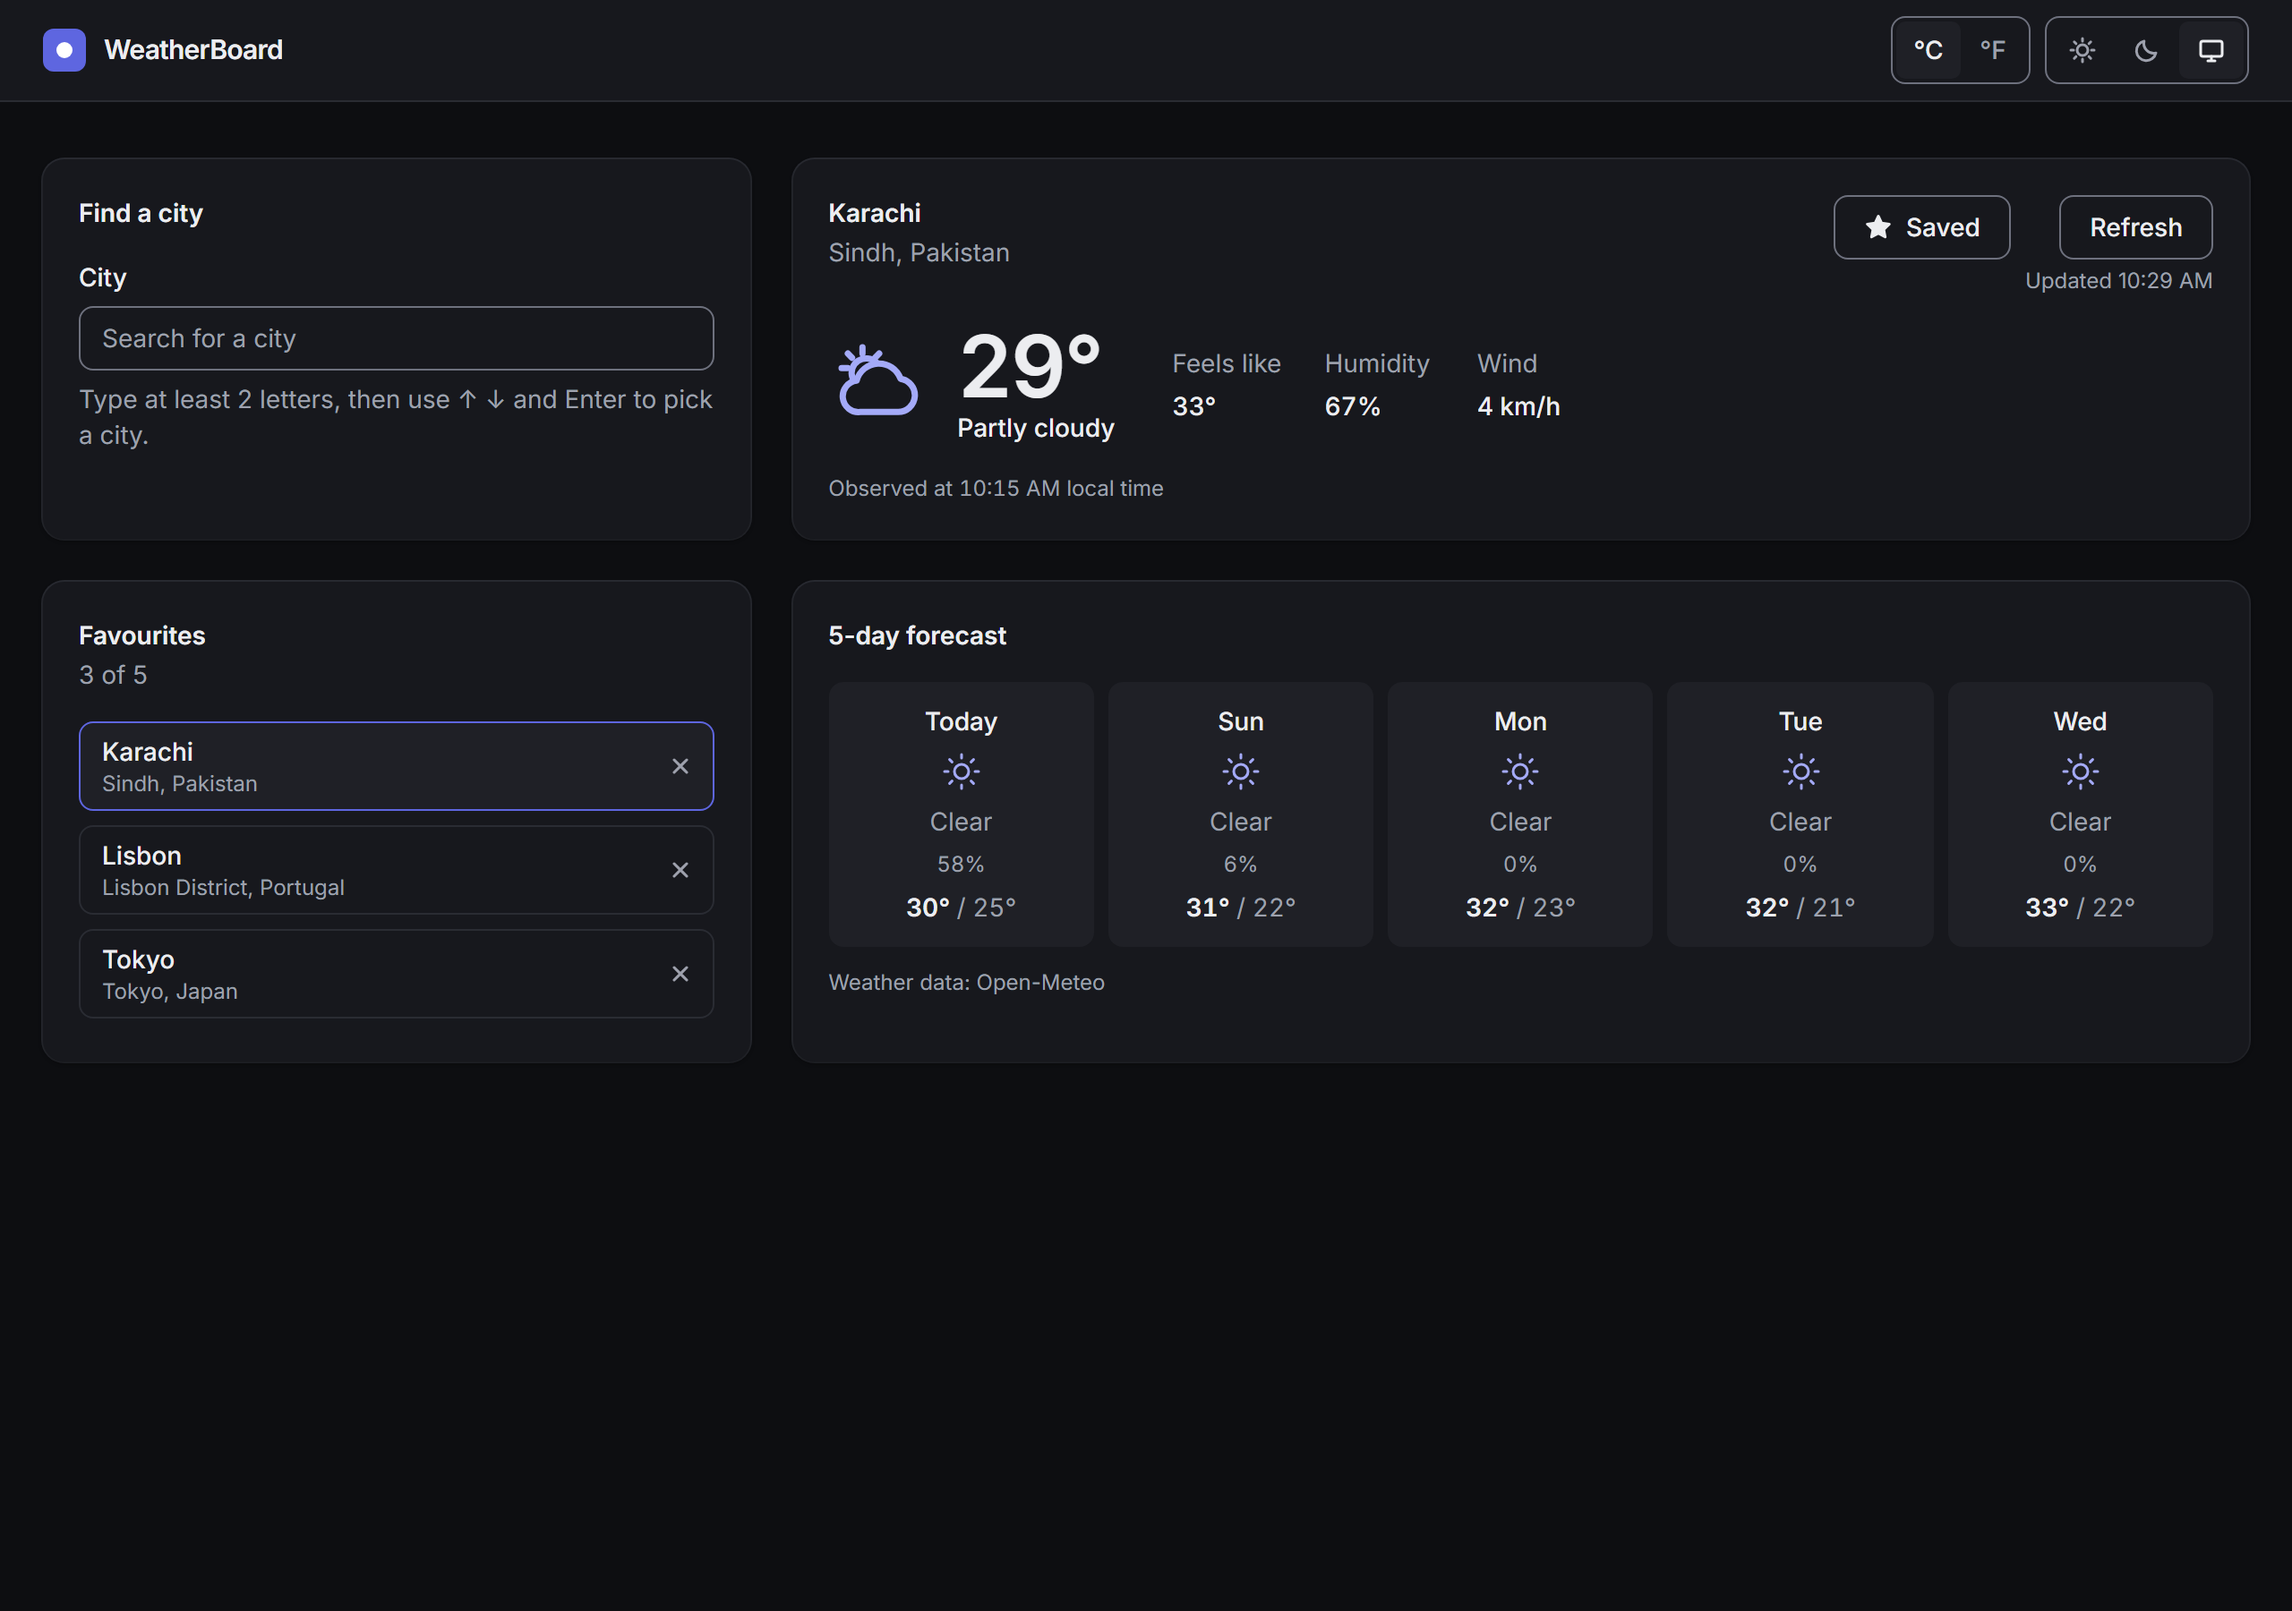
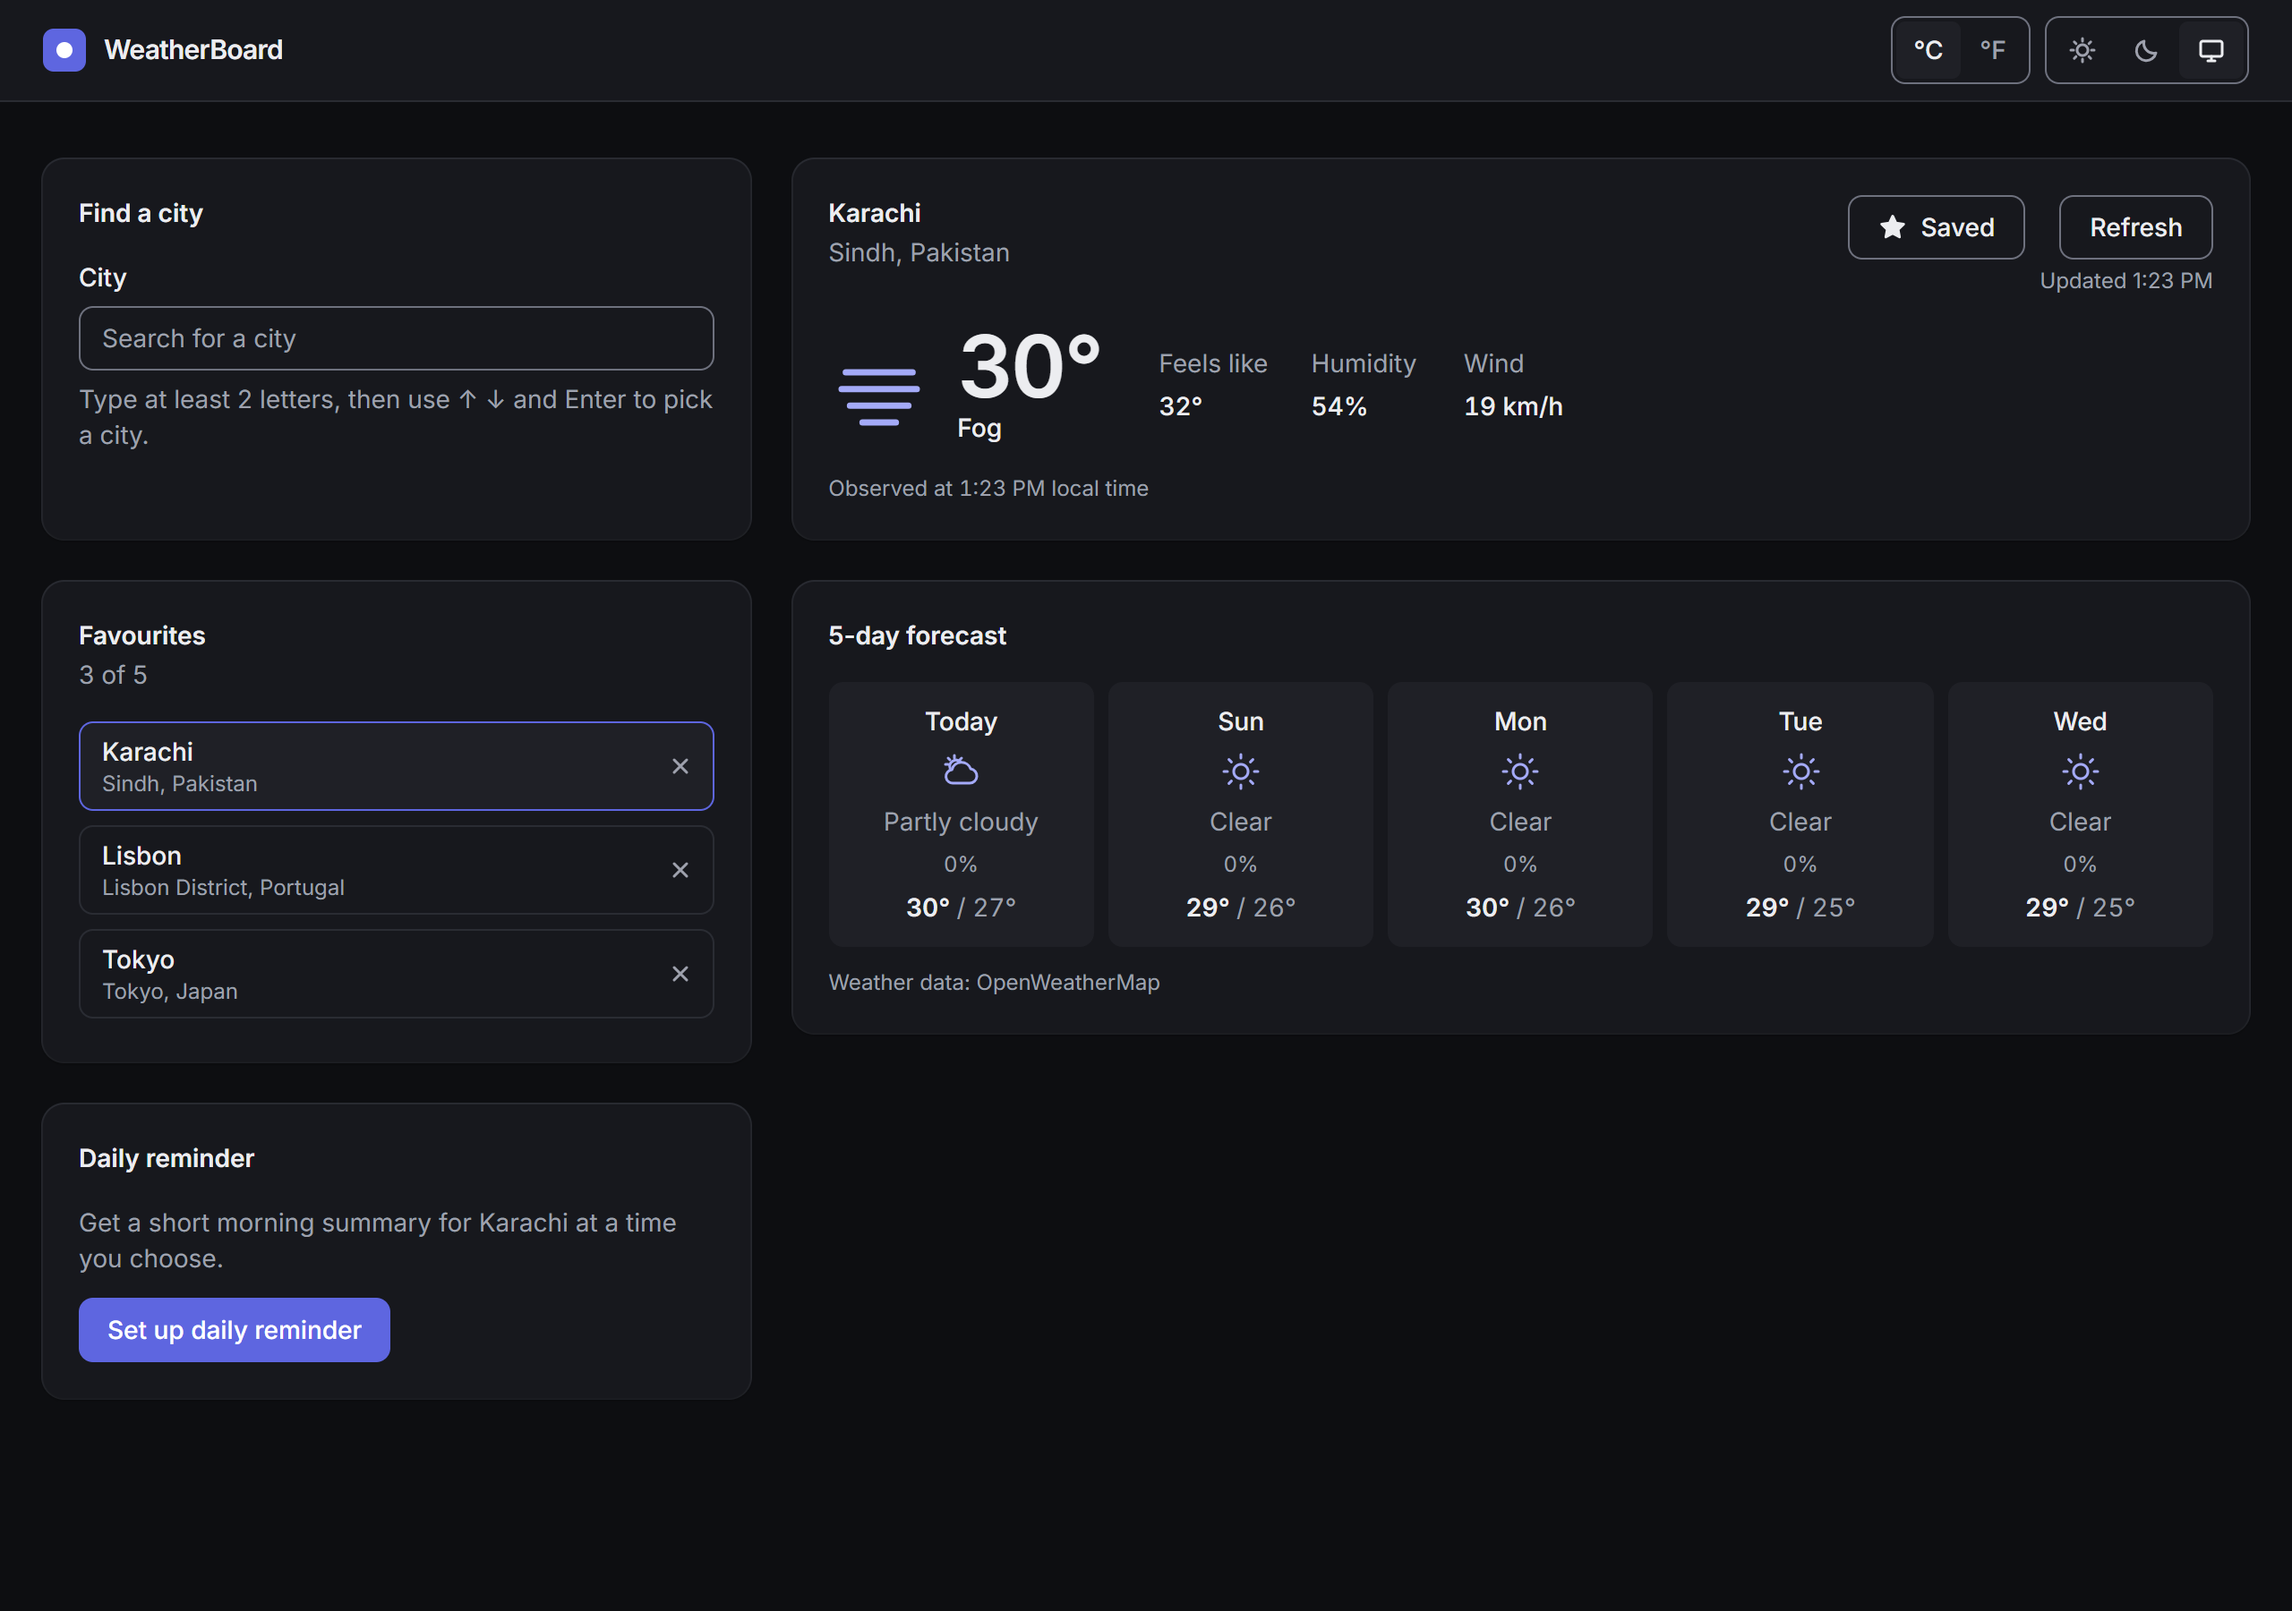
docs: refresh README screenshots with the daily reminder card

diff --git a/README.md b/README.md
@@ -11,8 +11,8 @@ strict TypeScript; API keys stay server-side in Vercel Functions and a Cloudflar
 | ![WeatherBoard at 375 px](docs/screenshots/weatherboard-375.png) | ![WeatherBoard at 1280 px](docs/screenshots/weatherboard-1280.png) |
 
 Dark theme at 1280 px: [docs/screenshots/weatherboard-1280-dark.png](docs/screenshots/weatherboard-1280-dark.png).
-Screenshots are of the live site with real data (three cities saved as favourites), taken
-before the push worker went live — production now also shows the **Daily reminder** card.
+Screenshots are of the live site with real data (three cities saved as favourites, the
+**Daily reminder** card ready to set up), taken on 2026-11-14.
 
 > **Production:** Vercel's production branch is `main` (promoted `dev` → `prod` → `main`).
 > Weather comes from OpenWeatherMap, and daily push reminders are live through the Cloudflare
